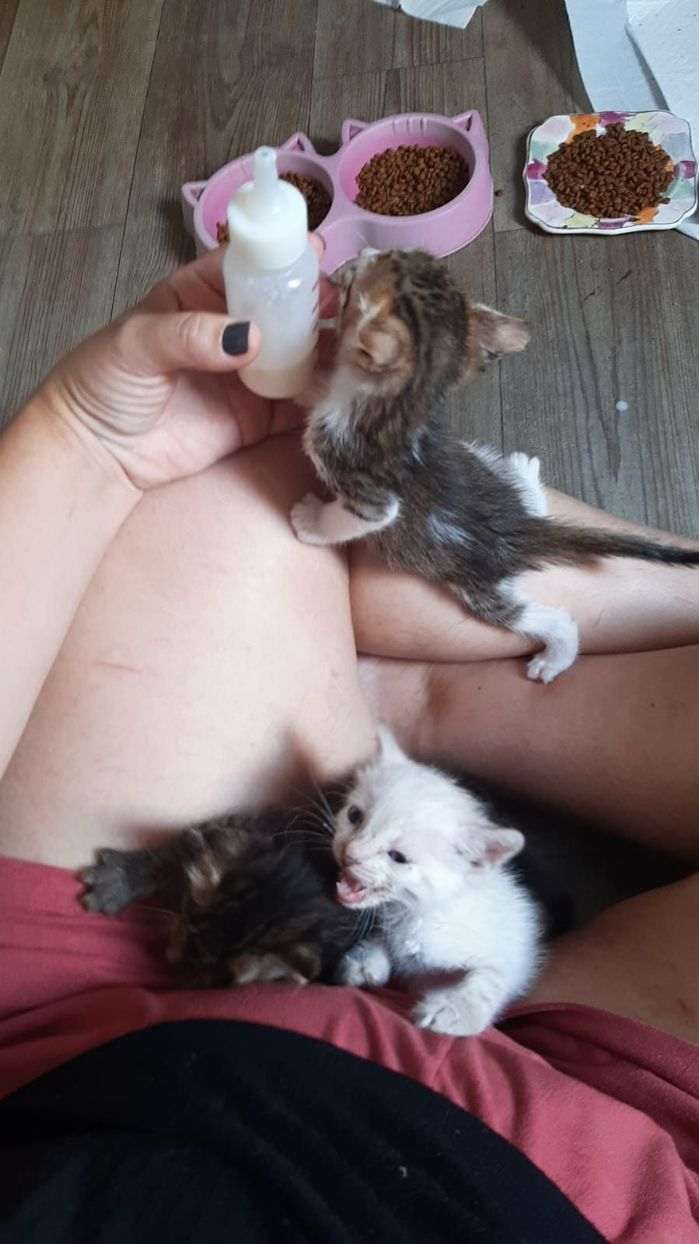
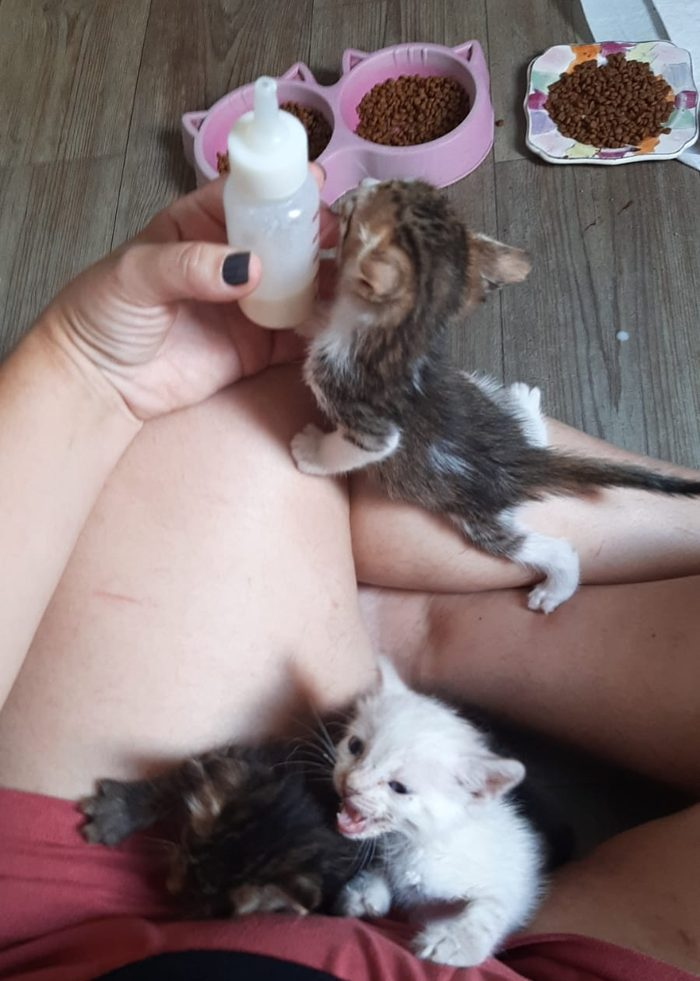
Recorta a foto dos gatinhos com mamadeira para reduzir a altura

diff --git a/css/style.css b/css/style.css
@@ -394,7 +394,7 @@ body { overflow-x: hidden; }
 
 .foto-artigo { margin: 26px 0; }
 .foto-artigo img { width: 100%; height: auto; border: 2px solid var(--tinta); border-radius: var(--raio); box-shadow: 6px 6px 0 var(--tinta); }
-.foto-vertical img { max-width: 420px; margin: 0 auto; }
+.foto-vertical img { max-width: 400px; margin: 0 auto; }
 .foto-artigo figcaption { margin-top: 12px; text-align: center; font-size: .95rem; font-weight: 700; color: var(--tinta-suave); }
 
 .cartao-img { width: 100%; aspect-ratio: 4 / 3; object-fit: cover; border-radius: 14px; border: 2px solid var(--tinta); margin-bottom: 14px; }

diff --git a/artigos/como-cuidar-de-gatinho-recem-nascido-sem-mae.html b/artigos/como-cuidar-de-gatinho-recem-nascido-sem-mae.html
@@ -111,7 +111,7 @@
         </p>
 
         <figure class="foto-artigo foto-vertical">
-          <img src="img/gatinhos-mamadeira-colo.jpg" width="699" height="1244" alt="Três gatinhos resgatados no colo de uma pessoa, um deles se agarrando à mamadeira com leite" loading="eager">
+          <img src="img/gatinhos-mamadeira-colo.jpg" width="700" height="981" alt="Três gatinhos resgatados no colo de uma pessoa, um deles se agarrando à mamadeira com leite" loading="eager">
           <figcaption>Filhotes resgatados recebendo mamadeira: calor, paciência e muito colo.</figcaption>
         </figure>
 
